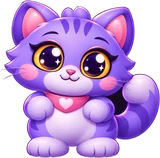
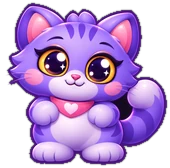
Thin #481379 outline around Munchkin
Claude-Session: https://claude.ai/code/session_019n5tnnEFKCgU8nDrxJsvHc

diff --git a/app.js b/app.js
@@ -60,7 +60,7 @@ function stopAIStatus() {
 // ---------- little helpers ----------
 // The painted Munchkin picture (big for the home and login screens, small for icons).
 function catPic(size = "big", label = "Munchkin the cat") {
-  const src = size === "big" ? "img/munchkin-480.webp" : "img/munchkin-160.webp";
+  const src = size === "big" ? "img/munchkin-480.webp?v=2" : "img/munchkin-160.webp?v=2";
   return `<img class="cat-pic" src="${src}" alt="${label}" draggable="false">`;
 }
 function iso(d) {
